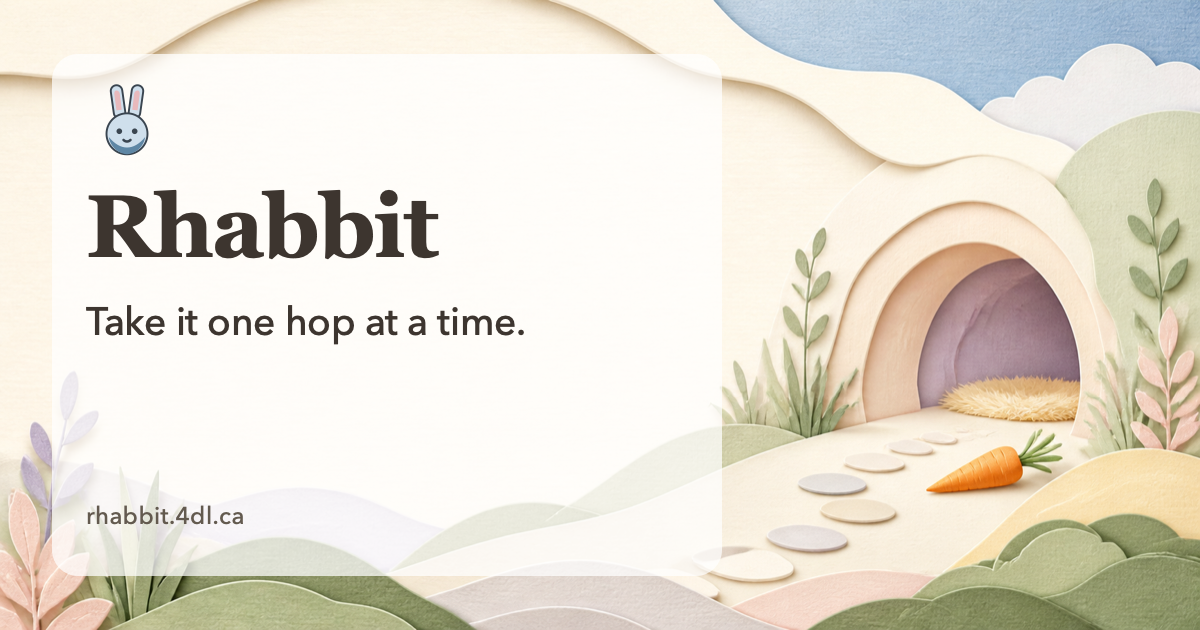
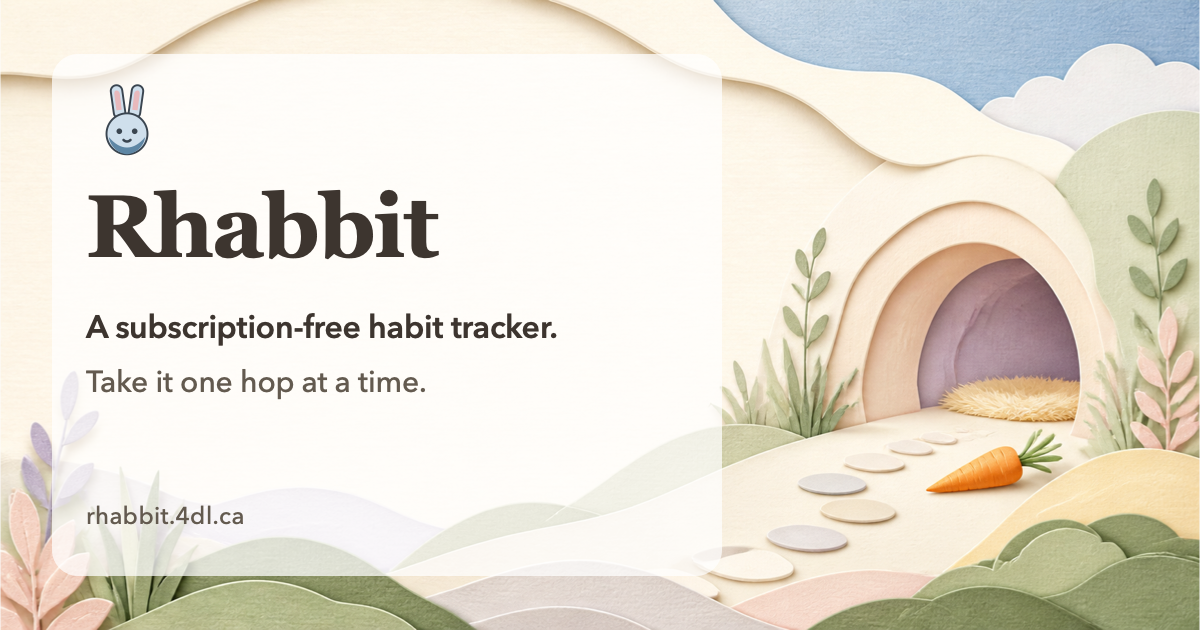
Clarify Rhabbit social card

Changed region(s): [[0.0617, 0.4825, 0.4625, 0.5429], [0.0617, 0.573, 0.37, 0.6333]]

diff --git a/index.html b/index.html
@@ -38,18 +38,18 @@
       })();
     </script>
     <meta property="og:title" content="Rhabbit" />
-    <meta property="og:description" content="Take it one hop at a time." />
+    <meta property="og:description" content="A subscription-free habit tracker. Take it one hop at a time." />
     <meta property="og:url" content="https://rhabbit.4dl.ca/" />
     <meta property="og:type" content="website" />
     <meta property="og:image" content="https://rhabbit.4dl.ca/og-image.png" />
     <meta property="og:image:width" content="1200" />
     <meta property="og:image:height" content="630" />
-    <meta property="og:image:alt" content="Rhabbit — take it one hop at a time." />
+    <meta property="og:image:alt" content="Rhabbit — a subscription-free habit tracker. Take it one hop at a time." />
     <meta name="twitter:card" content="summary_large_image" />
     <meta name="twitter:title" content="Rhabbit" />
-    <meta name="twitter:description" content="Take it one hop at a time." />
+    <meta name="twitter:description" content="A subscription-free habit tracker. Take it one hop at a time." />
     <meta name="twitter:image" content="https://rhabbit.4dl.ca/og-image.png" />
-    <meta name="twitter:image:alt" content="Rhabbit — take it one hop at a time." />
+    <meta name="twitter:image:alt" content="Rhabbit — a subscription-free habit tracker. Take it one hop at a time." />
   </head>
   <body>
     <div id="root"></div>